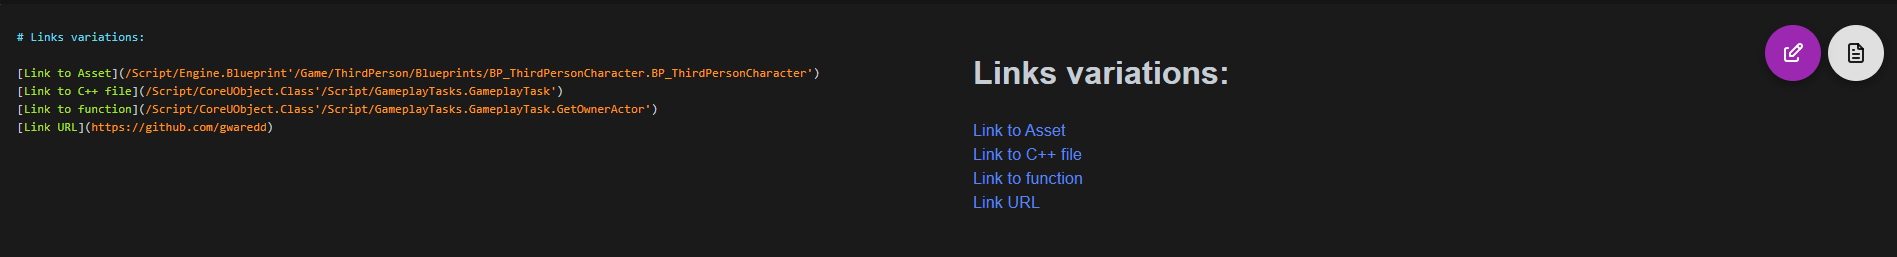
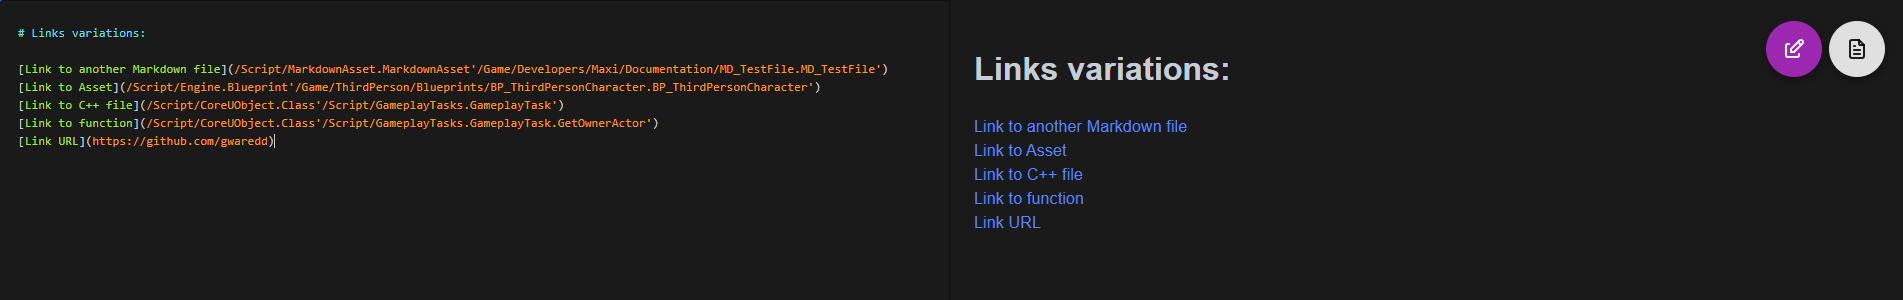
Added descriptions about referencing Markdown files as assets.

diff --git a/README.md b/README.md
@@ -51,6 +51,10 @@ You can directly copy and paste a reference to any asset or C++ file from the ed
 ![X](./Docs/AssetReference.png)
 ![X](./Docs/ScriptReference.png)
 
+Because Markdown files are assets too, you can reference them too! very useful to build one big index for your systems documentations
+
+![X](./Docs/MarkdownReference.png)
+
 You can specify a function in a class link by adding ".FunctionName" at the end, right before the last "'" character. When clicked, the default IDE will show the class at the specific function.
 
 i.e: to link the GetOwnerActor function inside the GameplayTask class the link is:
